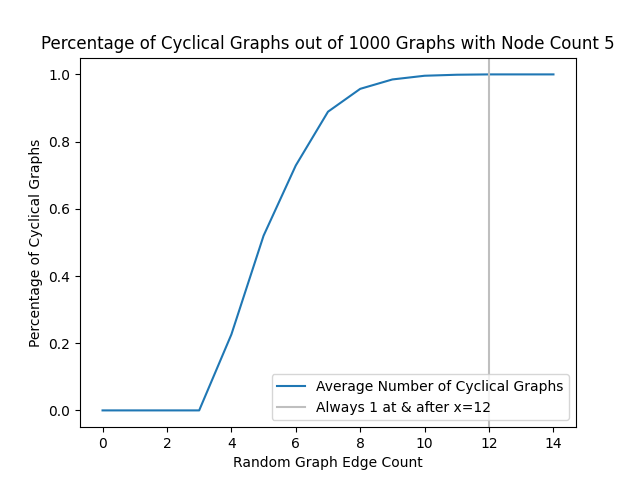
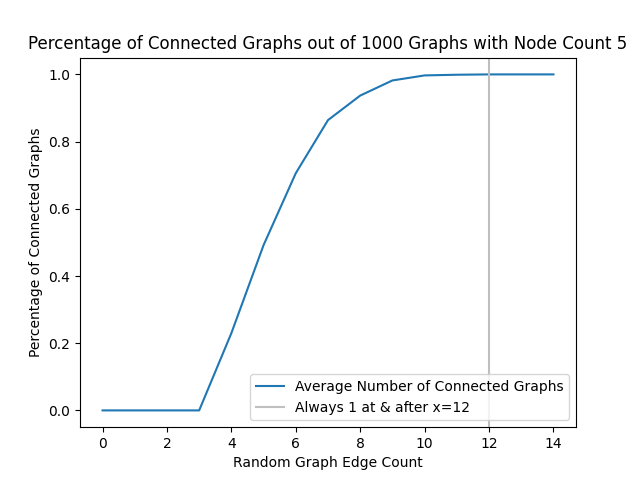
Experiment 2

diff --git a/main.tex b/main.tex
@@ -41,6 +41,15 @@
     \end{figure}
 }
 
+\newcommand{\figureSmaller}[2]
+{
+    \begin{figure}[ht!]
+        \centering
+        \includegraphics[width=1\textwidth,scale=0.5]{#1}
+        \caption{#2}
+    \end{figure}
+}
+
 %=-=-=-=-=-=-=-=-=-=-=-=-=-=-=-=-=-=-=-=-=-=-=-=-=-=-=-=-=-=-=-=-=-=-=-=-=-=-=-=-=-=-=-=-=-=-=-=-
 
 % Hide Numbers on Sections
@@ -210,26 +219,27 @@ Obviously, we see that the average number of edges need to create a cycle seems 
 
 Experiment 2 performs 2 types of tests, which act almost identically to the tests in Experiment 1.
 
-\subsubsection*{Proportionality Test}
-The first test, Proportionality, works as follows:
+\subsubsection*{Proportionality* Test}
+The style of test Proportionality*, works as follows:
+
+We define $E'$ as a `constant', where $E'$ is defined as
+\begin{center}
+    $E' = \frac{V^2 + V}{2}$
+\end{center}
+
+Where $V$ is the number of nodes in the graph.
 
 \begin{itemize}
     \item We create a random graph $G$ with constant $V$ nodes and $E$ amount of edges.
     \item We check if $G$ is connected. If so, add to a count.
     \item Repeat above $X$ times, and get the proportion of connected vs non-connected.
-    \item Repeat this entire process for a range of $E$.
+    \item Repeat this entire process for $E$ between the range of 0 to $E'$.
 \end{itemize}
 
-\subsubsection*{Proportionality Test*}
-The next test, Proportionality Test* follows exactly from Proportionality Test, but does not allow for a definition of $E$. Instead, $E$ is calculated as
-
-\begin{center}
-    $E = \frac{V^2 + V}{2}$
-\end{center}
 
 This is the maximum number of edges that can be added to an undirected graph, with self loops. This way, we explore the range of all possible number of edge counts.
 
-This works best for small graphs, so that the edge count is not extraordinarily high.
+This works best for small graphs, so that the edge count is not extraordinarily high. For larger graphs we use the unstarred Proportionality test.
 
 
 \subsubsection{Tests}
@@ -247,8 +257,46 @@ Afterwards, we perform a regular Proportionality Test with 100 trials on graphs 
 And finally, we do a tests that show us how the connectivity falls off based on, same as in Experiment 1, $V$ nodes and $V$ edges. 
 The graph size will be 1000 nodes. The maximum number of edges will be 100\% of the number of nodes (1000 edges); doing only the edges that are a multiple of 5. We do 100 trials per edge count.
 
-
 \subsubsection{Proportionality Test Results and Conclusions}
+
+\FloatBarrier{}
+\firgureBuffered{images/experiment2/a.png}{The Number of Random Edges vs Percentage of Connected 5 Node Graphs out of 1000}
+\firgureBuffered{images/experiment2/b.png}{The Number of Random Edges vs Percentage of Connected 10 Node Graphs out of 1000}
+\firgureBuffered{images/experiment2/c.png}{The Number of Random Edges vs Percentage of Connected 30 Node Graphs out of 1000}
+\FloatBarrier{}
+
+To come up with an equation, we think about how we can create a connected graph, or rather, at what edge case the graph would have to be in order for it to still be NOT connected.
+
+Imagine a graph with every possible edge added to it. We have already stated that the number of edges
+\begin{center}
+    $E = \frac{V^2 + V}{2}$
+\end{center}
+
+Now we think how to force the graph to be un connected. To do this, we pick some node and remove every connected to it. Since, in our graph, every
+node is connected to the other $V-1$ nodes, we can remove those $V-1$ connections.
+
+This leaves us with our final graph, where every node is connected to every other node, save for one extra that is only connected to itself (which does not impact connectivity).
+
+To force the graph to be connected, we just add one more edge to the isolated node, which must then, by our definition, connect the entire graph.
+
+Thus, our equation to find the amount of edges to force a connected node is
+\begin{center}
+    $E = \frac{V^2 + V}{2} - (V-1) + 1$
+    $E = \frac{V^2 - V}{2} + 2$
+\end{center}
+
+Looking at the edge count for the graph sizes we tested on, we get the following number of edges to force a connective graph
+
+\begin{itemize}
+    \item $E(5) = 12$ 
+    \item $E(10) = 47$ 
+    \item $E(30) = 437$ 
+\end{itemize}
+
+While we do get the correct number for a graph with 5 nodes, we do not get the correct number of edges for a graph of 10 or 30 nodes. This is most likely due to the fact that as we get higher and higher node counts, the
+amount of `permutations' of edge placements grows rapidly. To get results where the proportion of graphs being connected is always 1, we must not be creating enough random graphs to affect the results.
+
+This could be improved apon by perfoming many more trials, or by actually creating each `permutation' of the graph and checking how many are connected.
 
 %=-=-=-=-=-=-=-=-=-=-=-=-=-=-=-=-=-=-=-=-=-=-=-=-=-=-=-=-=-=-=-=-=-=-=-=-=-=-=-=-=-=-=-=-=-=-=-=-
 %

diff --git a/code/experiment2.py b/code/experiment2.py
@@ -59,11 +59,6 @@ def max_proportionality_test(const_node_count, trial_count):
 if (__name__ == "__main__"):
 
     # Proportionality For small(ish) graphs
-    # test1 = max_proportionality_test(5, 1000) # Edges = 15
-    # test2 = max_proportionality_test(10, 1000) # edges = 55
-    # test3 = proportionality_test(30, 250, 1000) #instead of 465
-
-    #At this point the amount of possible graphs become crazy
-    test4 = proportionality_test(1000, 1000, 100, 50)
-
-    test5 = proportionality_test(1000, 10000, 100, 100)
+    test1 = max_proportionality_test(5, 1000) # Edges = 15
+    test2 = max_proportionality_test(10, 1000) # edges = 55
+    test3 = proportionality_test(30, 250, 1000) #instead of 465
